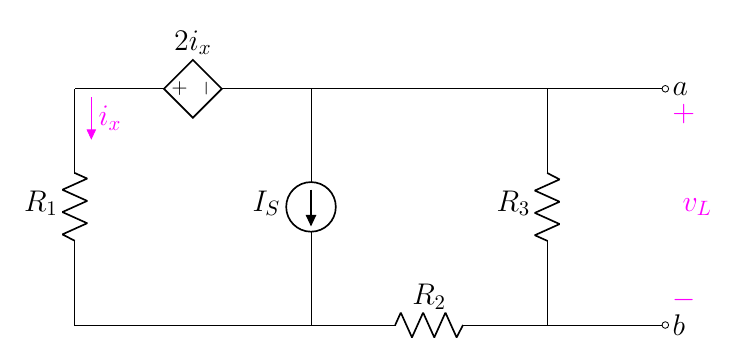
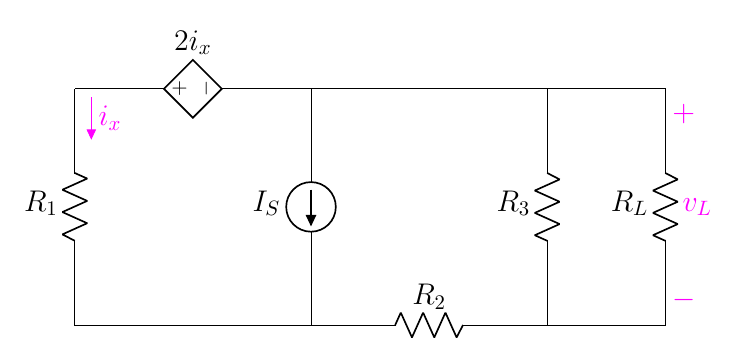
edit 5.40

diff --git a/1.8 Thevinin and Norton/5.3 Thévenin and Norton Equivalent Circuits/5.40(new).tex b/1.8 Thevinin and Norton/5.3 Thévenin and Norton Equivalent Circuits/5.40(new).tex
@@ -3,8 +3,8 @@
 \begin{circuitikz}[american,cute inductors]
     \input{../../preamble2.tex}
 
-    \draw(0,0) node[anchor=west]{$b$}
-        to[short,o-] ++(-2,0)
+    \draw(0,0)
+        to[short] ++(-2,0)
         to[R,l_=\rname{2}] ++(-4,0)
         to[short] ++(-4,0)
         to[R,l=\rname{1}] ++(0,4) ++(4,0)
@@ -12,7 +12,8 @@
         to[I,l_=\isname{}] ++(0,-4) ++(0,4)
         to[short] ++(4,0)
         to[R,l_=\rname{3}] ++(0,-4) ++(0,4)
-        to[short,-o] ++(2,0) node[anchor=west]{$a$};
+        to[short] ++(2,0) 
+        to[R,l_=\rname{L}] (0,0);
 
     %%% find %%%
     % node[anchor=west]{$a$}
